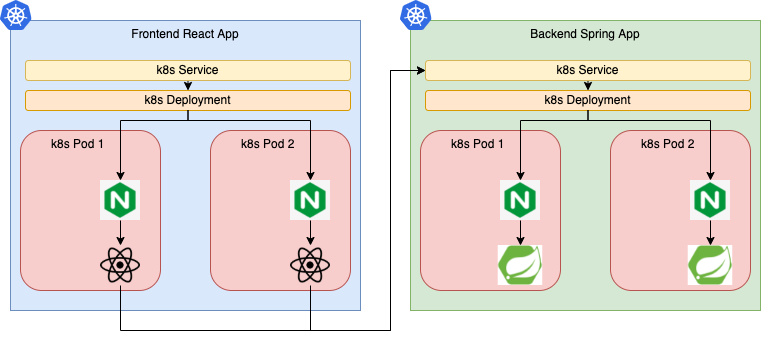
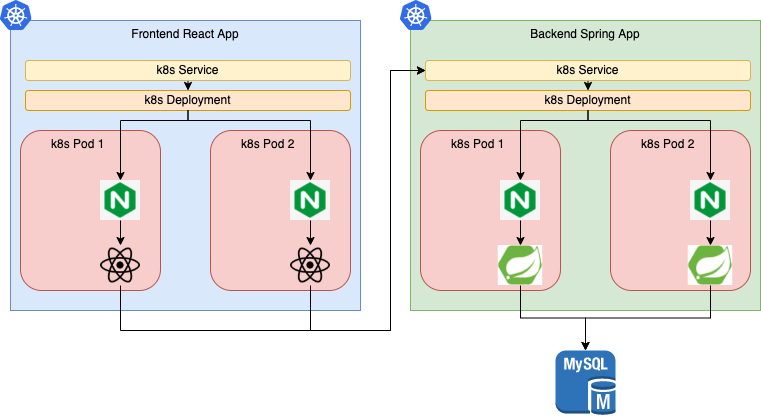
Added new diagrams describing how to use lens to monitor and operate a k8s cluster. updated existing diagram and added details on using prometheus and grafana. updated existing diagram and added details on how the java backend will connect to an external database. Updated deployment file to consume 
Added Azure terraform files for cross comparison between linode and Azure.
Updated README.md instructions:
- highlighted how the rbac is created and used
- highlighted how the app backend connects to the database
- highlighted how terraform is used to provision and destroy the infra on the cloud provider via the pipeline
- added examples on how to use terraform with azure vs linode
- highlighted how the horizontal pod autoscaler is configured for the backend.
- highlighted how to manage the k8s on the cloud provider and how to enable the cluster node auto scaler
- highlighted how to install tools and plugins to monitor and operate the kubernetes cluster.

diff --git a/README.md b/README.md
@@ -11,14 +11,13 @@ The content of this repository is divided into several locations as follow:
 | k8s/BE | this folder contains the dockerfile, the startup script for the backend deployment and the nginx virtual host entry that upstreams to the spring boot running instance. |
 | k8s/FE | this folder contains the dockerfile, the startup script for the frontend deployment and the nginx virtual host entry that redirects the user to the generated react dist folder. |
 | k8s/kube | this folder contains the k8s templates and a NodeJS script that uses ENV variables to generate the k8s deployment & service for each of the frontend or backend depending on the stage that invokes it. |
+| k8s/rbac | this folder contains the k8s templates for creating RBAC configuration to restrict the access of users to specific resources and operations on the kubernetes cluster. |
 | k8s/artifacts | this folder contains a copy of the generated k8s recipes for each of Frontend and Backend after the entire pipeline finishes. |
 | k8s/diagrams | this folder contains the blueprints and some high level overview of the application architecture, the pipeline stages and workflow, and the deployment overview on the k8s cluster. |
 | tf | this folder contains the IaC templates & recipes that allows terraform to provision a new k8s cluster on a linode account.
 | bitbucket-pipeline.yml | this file contains the ci/cd pipeline instructions. |
 
-## Architecture
-
-#### Application Overview:
+## Application Overview
 The following image visualize from a bird-eye view how the application is structure and how it is running on the hosting platform:
 ![Application Overview](./k8s/diagrams/app-overview.png)
 
@@ -28,7 +27,35 @@ Each deployment is accessible via a Nginx web server.
 
 Requests arrive to the Nginx server and the latter redirects them to the react application of the spring boot backend api.
 
-#### Deployment Overview:
+The spring Backend APIs, that are running inside the pods of the Spring deployment, operate on an SQL Database that is hosted on a separate virtual machine.
+
+### Important Notes
+
+The application will run on a kubernetes (k8s) cluster. 
+
+The connection details to the mysql cluster will be provided to the Spring deployment as a secret.
+
+This secret is created by the pipeline before the Backend Deployment is created and under the same namespace.
+
+The code snippet for the database cluster is located in this repository in this file [mysql credentials secret](./k8s/artifacts/mysql_credentials.yaml).
+
+Then when the pipeline creates the backend deployment, the latter is pre-configured to consume this secret and use it.
+
+The [Backend API k8s Artifact](./k8s/artifacts/BE/deployment.yaml) inside this repo contains the code snippet of how the secret is consumed as an environment variable inside the deployment.  
+
+Once the backend pod is created, the k8s recipe instructs running a shell file **[start.sh](./k8s/BE/script/start.sh)**.
+
+This file loads the volumed k8s secret as an environment variable, parses it and creates a new yaml file "mysql_configuration.yaml" on the file system of the pod.
+
+The Java code in the pod, then parses this yaml file, extracts the connection configuration information and passes it to the Java code and the latter establishes a connection to the MySQL Database.
+
+```shell
+echo "Extract Database Information"
+cd /opt/reactapp/BE/
+echo -n "$MYSQL_CREDENTIALS" | base64 -d > /cd /opt/reactapp/BE/mysql_configuration.yml
+```
+
+## Deployment Overview
 The following image visualize from a bird-eye view how the application is deployed on a kubernetes cluster:
 ![Deployment Overview](./k8s/diagrams/deployment-overview.png)
 
@@ -39,7 +66,7 @@ In addition, each deployment is configured as a replicaset with an exposed k8s s
 Requests hit the service, the latter redirects to the deployment, and the deployment load balances on its replicated pods.
 
 
-#### Pipeline Overview:
+## Pipeline Overview
 The following image visualize from a bird-eye view how the ci/cd pipeline is configured and its workflow:
 ![Pipeline Overview](./k8s/diagrams/pipeline-overview.png)
 
@@ -55,7 +82,27 @@ The following image visualize from a bird-eye view how the ci/cd pipeline is con
   - Creates a new Namespace on the k8s cluster
   - Creates 2 service accounts on the k8s cluster: react - spring
   - connects to the k8s clusters and deploys/updates the components
+    - The backend deployment is configured with a horizontal pod autoscaler that monitors the CPU usage and scales this deployment dynamically when that limit is reached.
   - provides a final step with manual trigger to destroy the k8s cluster on linode
+
+### RBAC
+Since the application will be deployed on the kubernetes cluster, the pipeine is configured to configure and set up 2 services accounts using RBAC k8s templates.
+
+The role-based access control authorization (RBAC) is a method of regulating access  to resources based on the roles of individual users.
+
+This pipeline creates one service account for the frontend React Application and another for the backend Spring Java Application.
+
+You can learn more about the kubernetes RBAC system on [this link](https://kubernetes.io/docs/reference/access-authn-authz/rbac/).
+
+
+### Terraform
+The pipeline relies on [Terraform](www.terraform.io) to provision and destroy the kubernetes cluster.
+
+The following files are included in the pipeline and contain the code of these tasks:
+- Provision k8s cluster [./tf/provision.sh](./tf/provision.sh)
+- Destroy k8s cluster [./tf/destroy.sh](./tf/destroy.sh)
+
+The pipeline also contains inline code documentation that sheds light on the purpose of each stage configured in it and its internal steps.
 
 ## Pipeline Overview
 
@@ -67,6 +114,25 @@ The pipeline has several entry points:
 
 This pipeline assumes that you have already configured the environment variables ( listed below ) that it requires to execute
 The pipeline is generic but imposes the usage of linode as a cloud provider to provision the k8s cluster. However, it works with any docker registry.
+
+## Terraform
+The pipeline utilizes terraform as an IaC to provision a kubernetes cluster on linode.
+
+Terraform is also capable of provisioning clusters and other types of infrastructure component on different cloud providers and not just Linode.
+
+For example, you can use Terraform to provision the same kubernetes cluster on Microsoft Azure [Click here to learn more](https://docs.microsoft.com/en-us/azure/developer/terraform/create-k8s-cluster-with-tf-and-aks).
+
+The difference between cloud providers however affect the code that gets written in the terraform scripts.
+
+### Example
+The following table provides reference links to terraform files that are included in this repository for both Linode and Azure.
+
+These files contain the Terraform scripts to provision a kubernetes cluster.
+
+| Linode TerraForm | Azure TerraForm |
+| --- | --- |
+| [Linode Terraform Script to create K8s Cluster](./tf/main.tf) | [Azure Terraform Script to create K8s Cluster](./tf/azure/main.tf) |
+| [Linode Terraform Variables](./tf/variables.tf) | [Azure Terraform Variables](./tf/azure/variables.tf) |
 
 ## Environment Variables
 Both docker images get generated in parallel and pushed to a remote docker registry.
@@ -94,6 +160,8 @@ This Script also utilize multiple environment variable supplied by the bitbucket
 | READINESS_PROBE_PORT | the readiness probe port to use |
 | READINESS_PROBE_PATH | the readiness probe path to use |
 | AUTOSCALE_CPU_LIMIT | the autoscale unit metric that the k8s HPA checks |
+| AUTOSCALE_CPU_PERCENT | the autoscale cpu metric metric that the k8s HPA uses to determine whether or not to scale this deployment |
+| AUTOSCALE_MAX_POD | the autoscale maximum replica pod limit that the k8s HPA uses |
 | DOCKER_IMAGE_PULL_POLICY | the docker image pull policy |
 | DOCKER_PRIVATE_REGISTRY | the docker registry secret to use if the registry is private |
 | STARTUP_CMD | the location of the startup command that executes when the pods of the deployment launch |
@@ -112,12 +180,67 @@ These variables are classified under 2 categories: global - environment.
 #### Global ENV Variables
 These variables do not change no matter which environment is running.
 ![Global Env Vars](./k8s/diagrams/global-env-vars.png)
-*(example taken from www.jamalouki.net cicde pipeline, similar to this assignment)*
+*(example taken from www.jamalouki.net cicd pipeline, a client of mine, that happens to be similar to this assignment)*
 
 #### Environment ENV Variables
 These variables are different in each environment that is running.
 ![Environment Env Vars](./k8s/diagrams/environment-env-vars.png)
-*(example taken from www.jamalouki.net cicde pipeline, similar to this assignment)*
+*(example taken from www.jamalouki.net cicd pipeline, a client of mine, that happens to be similar to this assignment)*
+
+## Managing the Infrastructure
+The application gets deployed on a kubernetes cluster.
+
+This cluster is provisioned on ["**Linode**"](www.linode.com) Cloud Provider.
+
+Once the cluster is set, you can use the [linode Dashboard](https://cloud.linode.com/kubernetes/clusters) to manage it.
+
+In the terraform variable template file [./tf/terraform.tfvars.tmpl](./tf/terraform.tfvars.tmpl), the recipe instructs creating a cluster with a pool of 2 worker nodes.
+
+Once the cluster is created, you can turn on the autoscaler through the linode dashboard.
+
+![K8s Linode Autoscaler](./k8s/diagrams/k8s-linode-autoscaler.png)
+
+# Monitoring the Infrastructure
+
+All cloud providers provide the mechanism to monitor the infrastructure you set up through their Dashboard.
+
+Using [Linode Dashboard](https://cloud.linode.com/kubernetes/clusters), you can monitor the status of each Worker node in your k8s cluster.
+
+![K8s Linode node Monitor](./k8s/diagrams/k8s-linode-monitor-node.png)
+
+
+## Metrics & Analytics
+In addition and to take things one step further, you can install additional tools to your kubernetes cluster that expose extra metrics from running pods.
+
+These metrics are then collected and displayed via a graphical user interface thereby providing the means to monitor the status and health of the running components of the application.
+
+Once the Kubernetes cluster is set up, you can deploy these monitoring tools.
+
+This guid mentions 2 tools that you can use to monitor your cluster.
+
+#### First Tool
+
+The most common monitoring tool used with a kubernetes clusters consists of installing both Prometheus and Grafana.
+
+![Prometheus and Grafana](./k8s/diagrams/prometheus-grafana.png)
+
+Prometheus provides the mechanism to collect and expose metrics from the kubelet.
+
+Grafana collects these exposed metrics and displays them withing a user interface.
+
+Both tools work together to sping up a dashboard that give insight on the status and health of the kubernetes cluster and the running pods in it.
+
+The following guide [Linode LKE using Prometheus and Grafana ](https://www.linode.com/docs/guides/lke-continuous-deployment-part-11/) 
+provides all the required instructions step by step that you should follow to install and configure both tools on your Linode kubernetes cluster ( LKE ).
+
+#### Second Tool
+If you prefer to take things one step further, one of the best tools that DevOps Love is [LENS](www.k8slens.dev).
+
+LENS provides multiple features that allow to connect to several kubernetes clusters, LKE among them, to monitor and operate on all deployments, configuration, secrets, services, configuration maps, namespaces ... etc ( basically anything that kubernetes offers).
+
+| Cluster Overview | Configure Metrics | Pod Overview | Pod Monitor | Pod Exec | Pod Logs | 
+| --- | ---| ---| ---| ---| ---|
+| ![Lens Cluster Overview](./k8s/diagrams/lens-cluster-overview.png) | ![Lens Metrics Configuration](./k8s/diagrams/lens-metrics-configuration.png) | ![Lens Pod Overview](./k8s/diagrams/lens-pod-overview.png) | ![Lens Pod Monitoring](./k8s/diagrams/lens-pod-monitoring.png)| ![Lens Pod Exec](./k8s/diagrams/lens-pod-exec.png) | ![Lens Pod Logs](./k8s/diagrams/lens-pod-logs.png) |
 
 ## Examples
 Please refer to the examples under folder **k8s/artifacts** to see how the generated k8s recipes look like.
